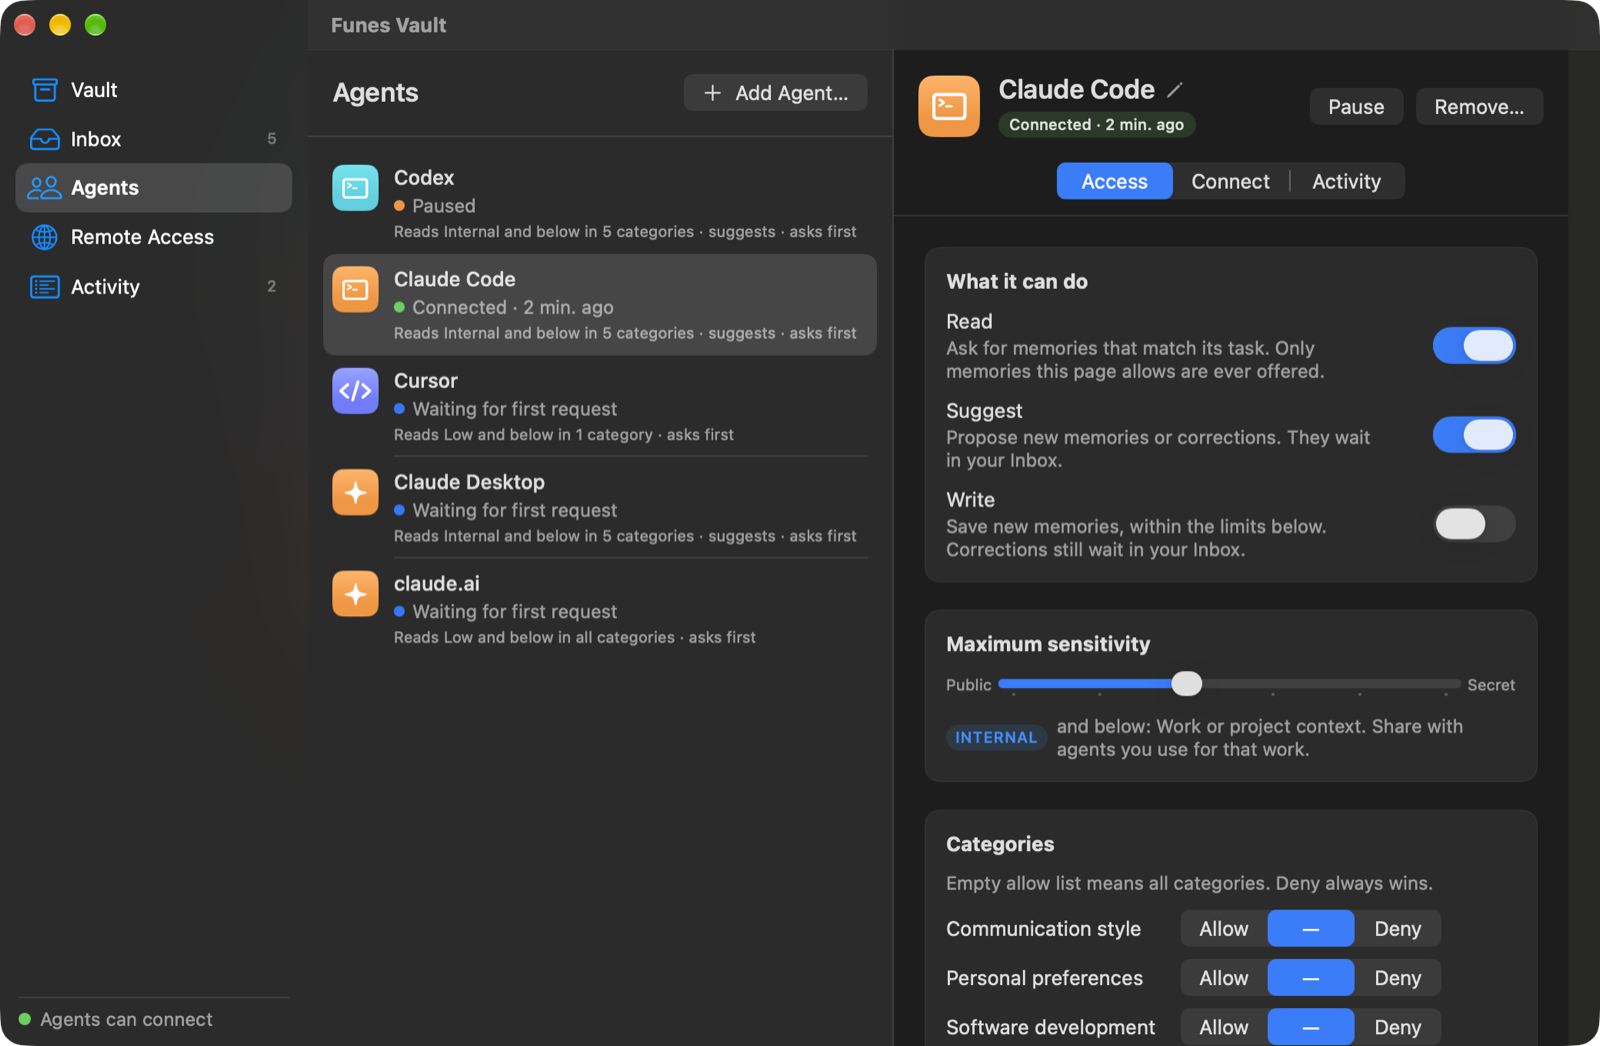
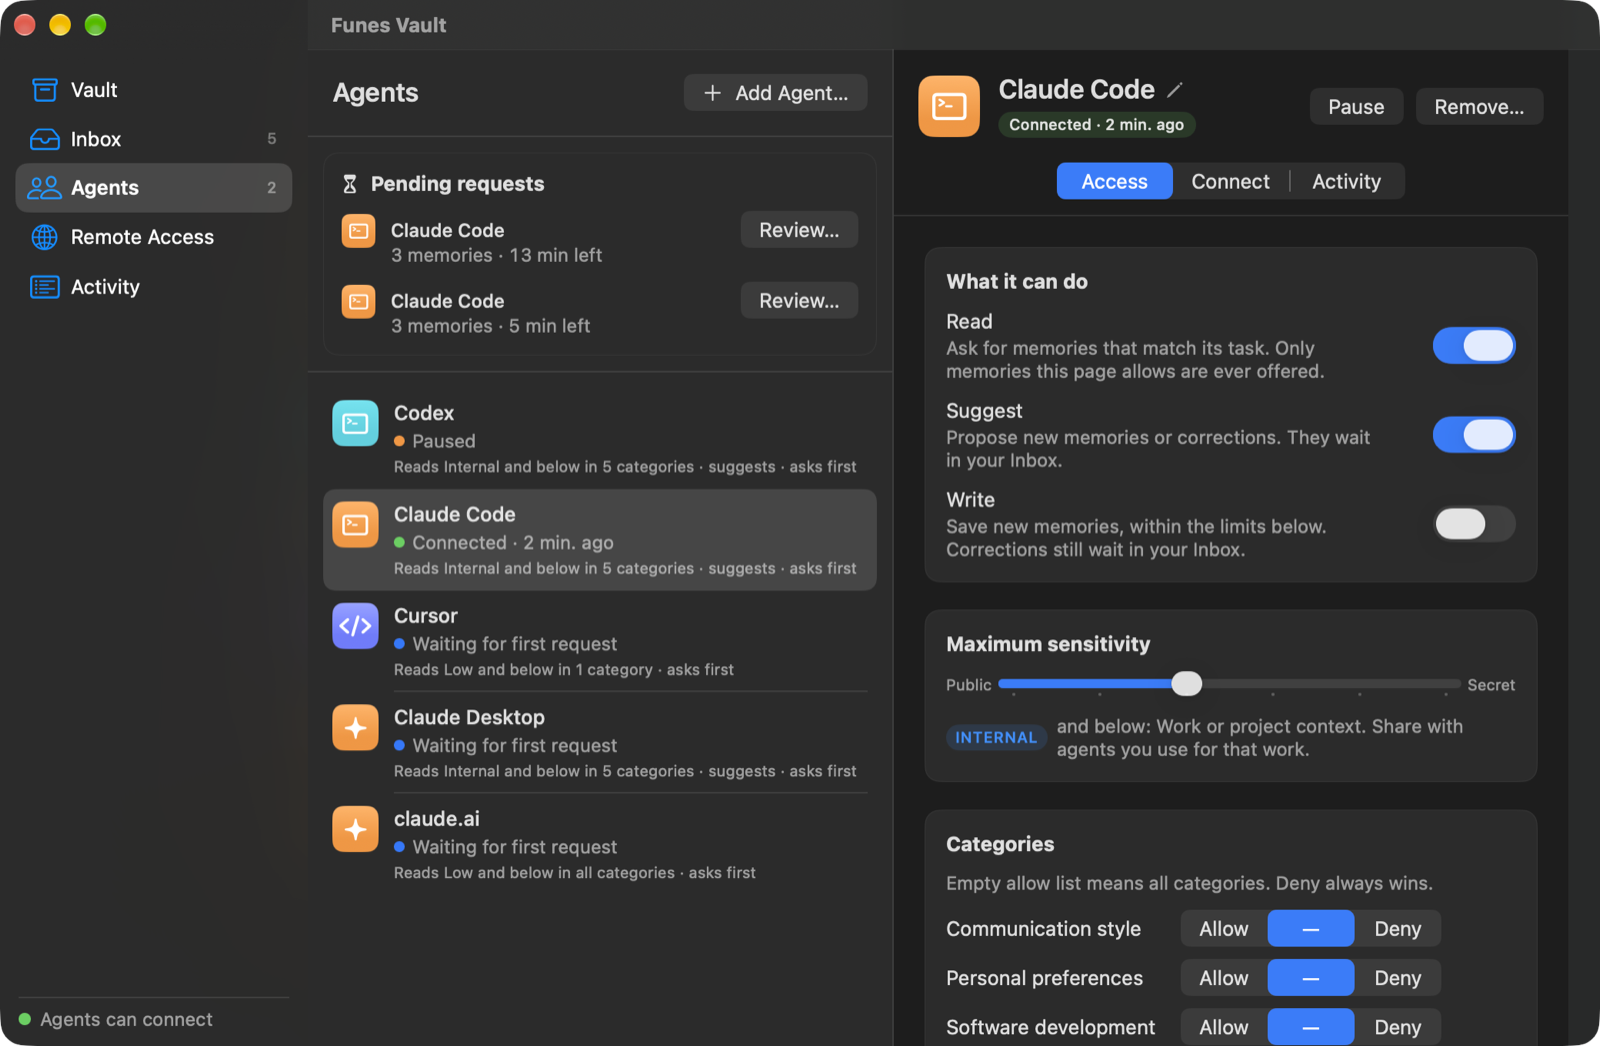
Add Agent tiles share one height; the seed sheet fits the window, with never-share always in view; refresh the Agents and Activity screenshots

Changed region(s): [[0.1875, 0.153, 0.5625, 0.6424], [0.1875, 0.673, 0.5312, 0.8566]]

diff --git a/Apps/FunesMac/Onboarding/SeedQuestionsSheet.swift b/Apps/FunesMac/Onboarding/SeedQuestionsSheet.swift
@@ -40,10 +40,11 @@ struct SeedQuestionsSheet: View {
                                 .font(.caption).foregroundStyle(.secondary)
                         }
                     }
-                    neverShareStep
                 }
                 .padding(.trailing, 8)
             }
+            // Always in view: Save applies it, so it must never be below the fold.
+            neverShareStep
             if let error { Label(error, systemImage: "exclamationmark.triangle.fill").foregroundStyle(.red).font(.callout) }
             HStack {
                 Spacer()
@@ -54,7 +55,8 @@ struct SeedQuestionsSheet: View {
             }
         }
         .padding(24)
-        .frame(width: 600, height: 680)
+        // Fits the main window at its minimum size; the questions scroll.
+        .frame(width: 600, height: 540)
         .task {
             let current = (try? await model.services.agents.neverShareCategories()) ?? []
             loadedNeverShare = current
@@ -66,7 +68,7 @@ struct SeedQuestionsSheet: View {
     /// "Which of these should agents never see?": category chips, applied as Deny.
     private var neverShareStep: some View {
         VStack(alignment: .leading, spacing: 8) {
-            Divider().padding(.vertical, 4)
+            Divider().padding(.bottom, 4)
             Text(String(localized: "Which of these should agents never see?")).fontWeight(.medium)
             LazyVGrid(columns: [GridItem(.adaptive(minimum: 160), spacing: 8, alignment: .leading)], alignment: .leading, spacing: 8) {
                 ForEach(model.categories) { category in

diff --git a/Apps/FunesMac/Agents/AddAgentSheet.swift b/Apps/FunesMac/Agents/AddAgentSheet.swift
@@ -227,7 +227,8 @@ struct CloudTile: View {
                 Spacer(minLength: 0)
             }
             .padding(8)
-            .frame(maxWidth: .infinity, alignment: .leading)
+            // One height for every tile, whether its name takes one line or two.
+            .frame(maxWidth: .infinity, minHeight: 62, alignment: .leading)
             .background(RoundedRectangle(cornerRadius: 8).fill(selected ? Color.accentColor.opacity(0.16) : Palette.card))
             .overlay(RoundedRectangle(cornerRadius: 8).strokeBorder(selected ? Color.accentColor : Palette.separator,
                                                                     lineWidth: selected ? 2 : 0.5))
@@ -256,7 +257,8 @@ struct AgentTile: View {
                 Spacer(minLength: 0)
             }
             .padding(8)
-            .frame(maxWidth: .infinity, alignment: .leading)
+            // One height for every tile, whether its name takes one line or two.
+            .frame(maxWidth: .infinity, minHeight: 62, alignment: .leading)
             .background(RoundedRectangle(cornerRadius: 8).fill(selected ? Color.accentColor.opacity(0.16) : Palette.card))
             .overlay(RoundedRectangle(cornerRadius: 8).strokeBorder(selected ? Color.accentColor : Palette.separator,
                                                                     lineWidth: selected ? 2 : 0.5))

diff --git a/README.md b/README.md
@@ -80,7 +80,7 @@ Every agent has its own access: whether it may **Read**, **Suggest** or **Write*
 
 <picture>
   <source media="(prefers-color-scheme: dark)" srcset="docs/images/agents-access-dark.png">
-  <img alt="The Agents page: each agent with its status and a summary of its access, and Claude Code's Access tab open, with switches for Read, Suggest and Write, a slider for the maximum sensitivity, and Allow or Deny for each category." src="docs/images/agents-access-light.png" width="640">
+  <img alt="The Agents page: two pending requests above the list, each with its memory count, time left and Review…, then each agent with its status and a summary of its access, and Claude Code's Access tab open, with switches for Read, Suggest and Write, a slider for the maximum sensitivity, and Allow or Deny for each category." src="docs/images/agents-access-light.png" width="640">
 </picture>
 
 ### You approve the exact text
